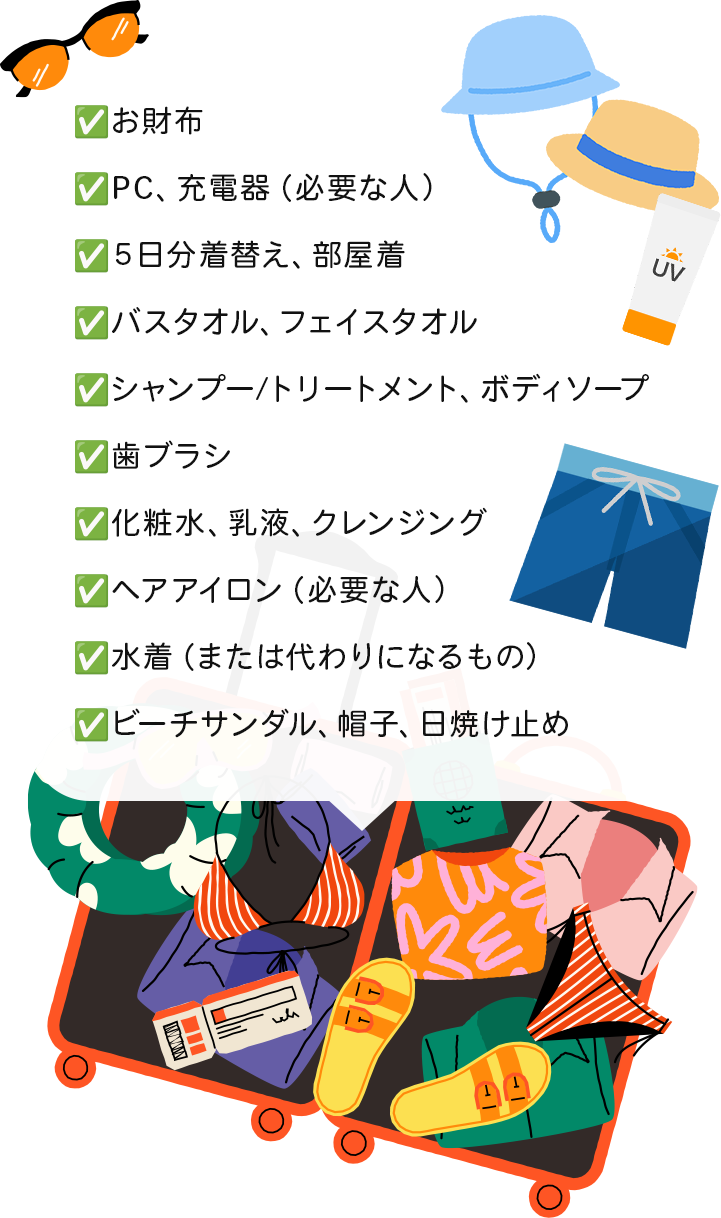
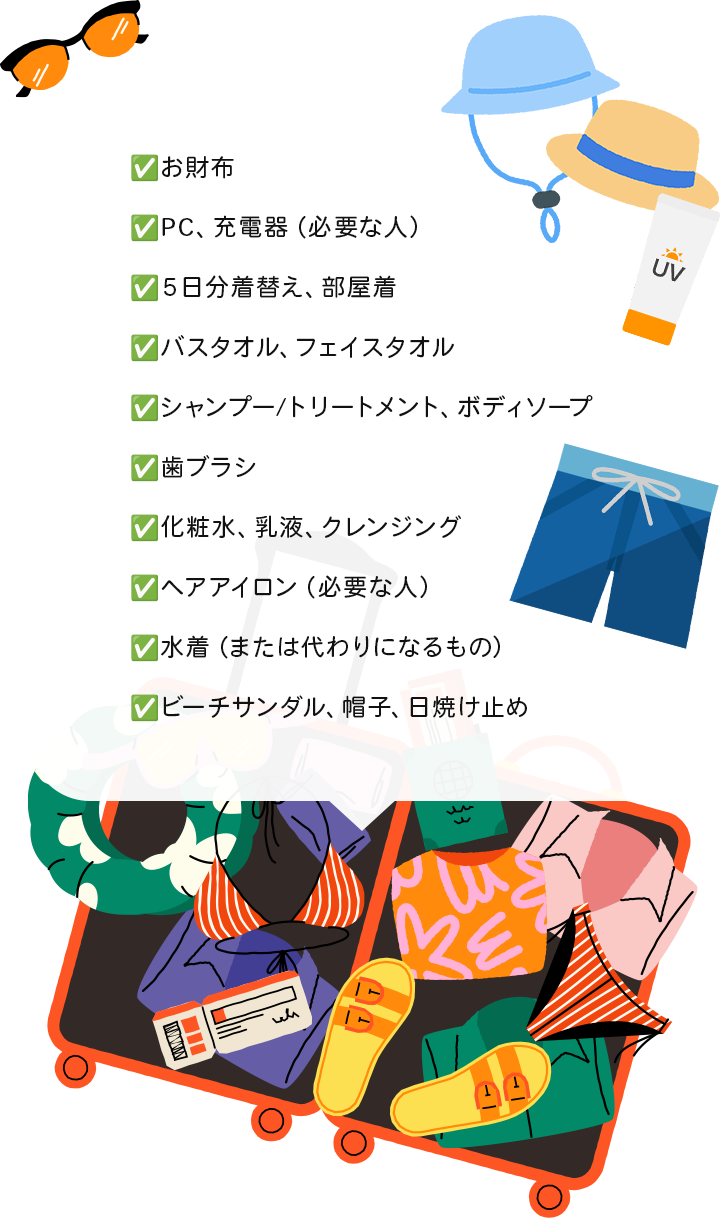
sec06調整中

Changed region(s): [[0.0915, 0.0624, 0.8239, 0.624], [0.8544, 0.312, 0.8849, 0.3432]]

diff --git a/index.html b/index.html
@@ -222,8 +222,8 @@
             </div>
             <div class="section effect-fade" id="sec06">
                 <div class="ttl effect-fade"><img src="./img/ttl_03.png" alt=""></div>
-                <div class="schedule">
-                    <p class="schedule_day effect-fade"><img src="./img/持ち物.png" alt=""></p>
+                <div class="list">
+                    <img src="../img/持ち物" alt="">
                 </div>
             </div>
         </div>

diff --git a/css/style.scss b/css/style.scss
@@ -299,6 +299,13 @@ body{
 #sec06 {
     background-color: none;
     padding: 80px 0 80px;
+
+    .list {
+        background-image: url(../img/持ち物.png);
+        background-size:cover;
+        background-repeat: repeat;
+        padding: 80px 0 80px;
+    }
 }
 
 @keyframes wave {

diff --git a/css/style.css b/css/style.css
@@ -261,6 +261,12 @@ body {
   background-color: none;
   padding: 80px 0 80px;
 }
+#sec06 .list {
+  background-image: url(../img/持ち物.png);
+  background-size: cover;
+  background-repeat: repeat;
+  padding: 80px 0 80px;
+}
 
 @keyframes wave {
   from {
